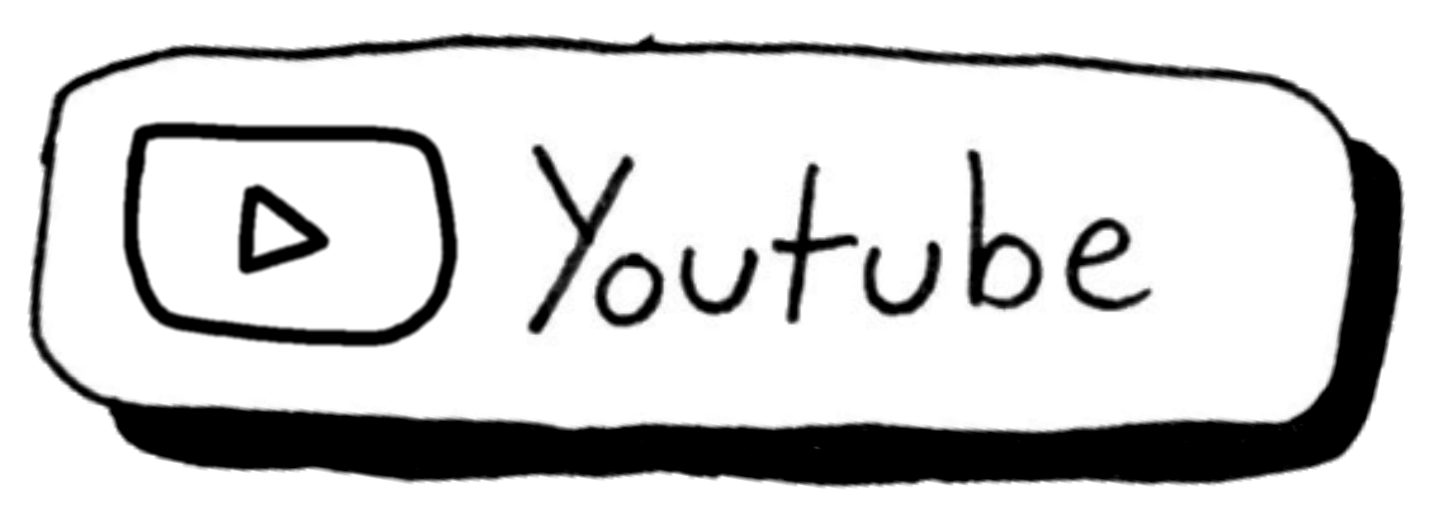
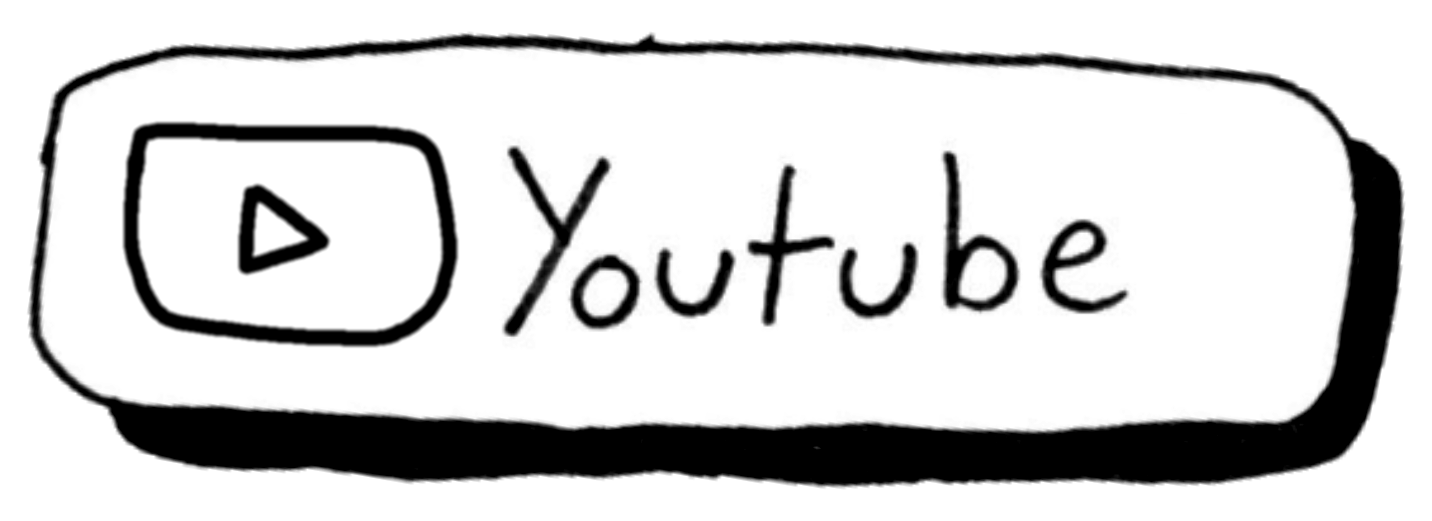
added music page and webps

Changed region(s): [[0.338, 0.2764, 0.8296, 0.6449]]

diff --git a/pages/music.html b/pages/music.html
@@ -1,0 +1,51 @@
+<!DOCTYPE html>
+<html lang="en">
+    <head>
+        <meta charset="utf-8" />
+        <meta name="viewport" content="width=device-width, initial-scale=1" />
+        <link rel="icon" type="image/x-icon" href="../img/logo.png">
+        <link rel="stylesheet" type="text/css" href="../styles/style.css">
+        <meta name="description" content="The page which contains links to Mr. Doily's released music." />
+        <link rel="canonical" href="https://mrdoily.com/pages/music">
+        <title>Mr. Doily's Music</title>
+    </head>
+    <body>
+        <div class="goBackControl">
+            <a href="../index.html" class="goBackLink">
+                <picture>
+                    <source type="image/webp" srcset="../img/buttons/back.webp">
+                    <img src="../img/buttons/back.png" alt="Back Button" id="goBackButton" 
+                    onmouseenter="this.style.filter='brightness(0.8)'; this.style.transform='rotate(-1deg) scale(1.05)';"
+                    onmouseleave="this.style.filter='brightness(1)'; this.style.transform='rotate(0deg) scale(1)';">
+                </picture>
+            </a>
+        </div>
+        <div class="musicPage">
+            <a href="comingsoon.html" target="_blank" rel="noopener noreferrer">
+                <picture>
+                    <source type="image/webp" srcset="../img/buttons/spotify.webp">
+                    <img src="../img/buttons/spotify.png" class="musicBtn" alt="spotify Link" id="spotify">
+                </picture>
+            </a>
+            <a href="comingsoon.html" target="_blank" rel="noopener noreferrer">
+                <picture>
+                    <source type="image/webp" srcset="../img/buttons/apple.webp">
+                    <img src="../img/buttons/apple.png" class="musicBtn" alt="Apple Music Link" id="appleMusic">
+                </picture>
+            </a>
+            <a href="comingsoon.html" target="_blank" rel="noopener noreferrer">
+                <picture>
+                    <source type="image/webp" srcset="../img/buttons/bandcamp.webp">
+                    <img src="../img/buttons/bandcamp.png" class="musicBtn" alt="Bandcamp Link" id="bandcamp">
+                </picture>
+            </a>
+            <a href="comingsoon.html" target="_blank" rel="noopener noreferrer">
+                <picture>
+                    <source type="image/webp" srcset="../img/buttons/soundcloud.webp">
+                    <img src="../img/buttons/soundcloud.png" class="musicBtn" alt="SoundCloud Link" id="soundcloud">
+                </picture>
+            </a>
+        </div>
+        <script src="../scripts/main.js"></script>
+    </body>
+</html>

diff --git a/pages/socials.html b/pages/socials.html
@@ -23,24 +23,22 @@
         <div class="socialsPage">
             <a href="https://www.instagram.com/mr.doily.band/" target="_blank" rel="noopener noreferrer">
                 <picture>
-                    <source type="image/png" srcset="../img/buttons/insta.png">
+                    <source type="image/webp" srcset="../img/buttons/insta.webp">
                     <img src="../img/buttons/insta.png" class="socialsBtn" alt="Instagram Link" id="instagram">
                 </picture>
             </a>
             <a href="comingsoon.html" target="_blank" rel="noopener noreferrer">
                 <picture>
-                    <source type="image/png" srcset="../img/buttons/facebook.png">
+                    <source type="image/webp" srcset="../img/buttons/facebook.webp">
                     <img src="../img/buttons/facebook.png" class="socialsBtn" alt="Facebook Link" id="facebook">
                 </picture>
             </a>
-            <a href="comingsoon.html" target="_blank" rel="noopener noreferrer">
+            <a href="https://www.youtube.com/@mrdoilyband" target="_blank" rel="noopener noreferrer">
                 <picture>
-                    <source type="image/png" srcset="../img/buttons/youtube.png">
+                    <source type="image/webp" srcset="../img/buttons/youtube.webp">
                     <img src="../img/buttons/youtube.png" class="socialsBtn" alt="Youtube Link" id="youtube">
                 </picture>
             </a>
-
-            
         </div>
         <script src="../scripts/main.js"></script>
     </body>

diff --git a/styles/style.css b/styles/style.css
@@ -194,9 +194,9 @@ html, body {
 }
 
 /*socials.html*/
-#socialsPage {
+.socialsPage {
     position: relative;
-    height: 60vh;
+    height: 90vh;
 }
 
 .socialsBtn {
@@ -215,12 +215,46 @@ html, body {
 }
 
 #facebook {
-    top: 40%;
+    top: 42%;
 }
 
 #youtube {
-    top: 55%;
+    top: 59%;
 }
+
+/*music.html*/
+.musicPage {
+    position: relative;
+    height: 90vh;
+}
+
+.musicBtn {
+    top: 23%;
+    left: 40%;
+    position: absolute;
+    width: 20vw;
+    height: auto;
+    transition: transform 180ms ease;
+    transform: rotate(0deg) scale(1);
+}
+
+.musicBtn:hover {
+    filter: brightness(0.8);
+    transform: rotate(-1deg) scale(1.05);
+}
+
+#appleMusic {
+    top: 40%;
+}
+
+#bandcamp {
+    top: 57%;
+}
+
+#soundcloud {
+    top: 74%;
+}
+
 @media (max-width: 600px) {
     .indexPage {
         height: 90vh;
@@ -380,6 +414,11 @@ html, body {
     }
     
     .socialsBtn {
+        width: 70vw;
+        left: 17%;
+    }
+
+    .musicBtn {
         width: 70vw;
         left: 17%;
     }

diff --git a/index.html b/index.html
@@ -27,7 +27,7 @@
                     <img src="../img/buttons/gigs.png" class="homepageBtn" alt="Gigs Button" id="gigs">
                 </picture>
             </a>
-            <a href="pages/comingsoon.html">
+            <a href="pages/music.html">
                 <picture>
                     <source type="image/webp" srcset="../img/buttons/music.webp">
                     <img src="../img/buttons/music.png" class="homepageBtn" alt="Music Button" id="music">
